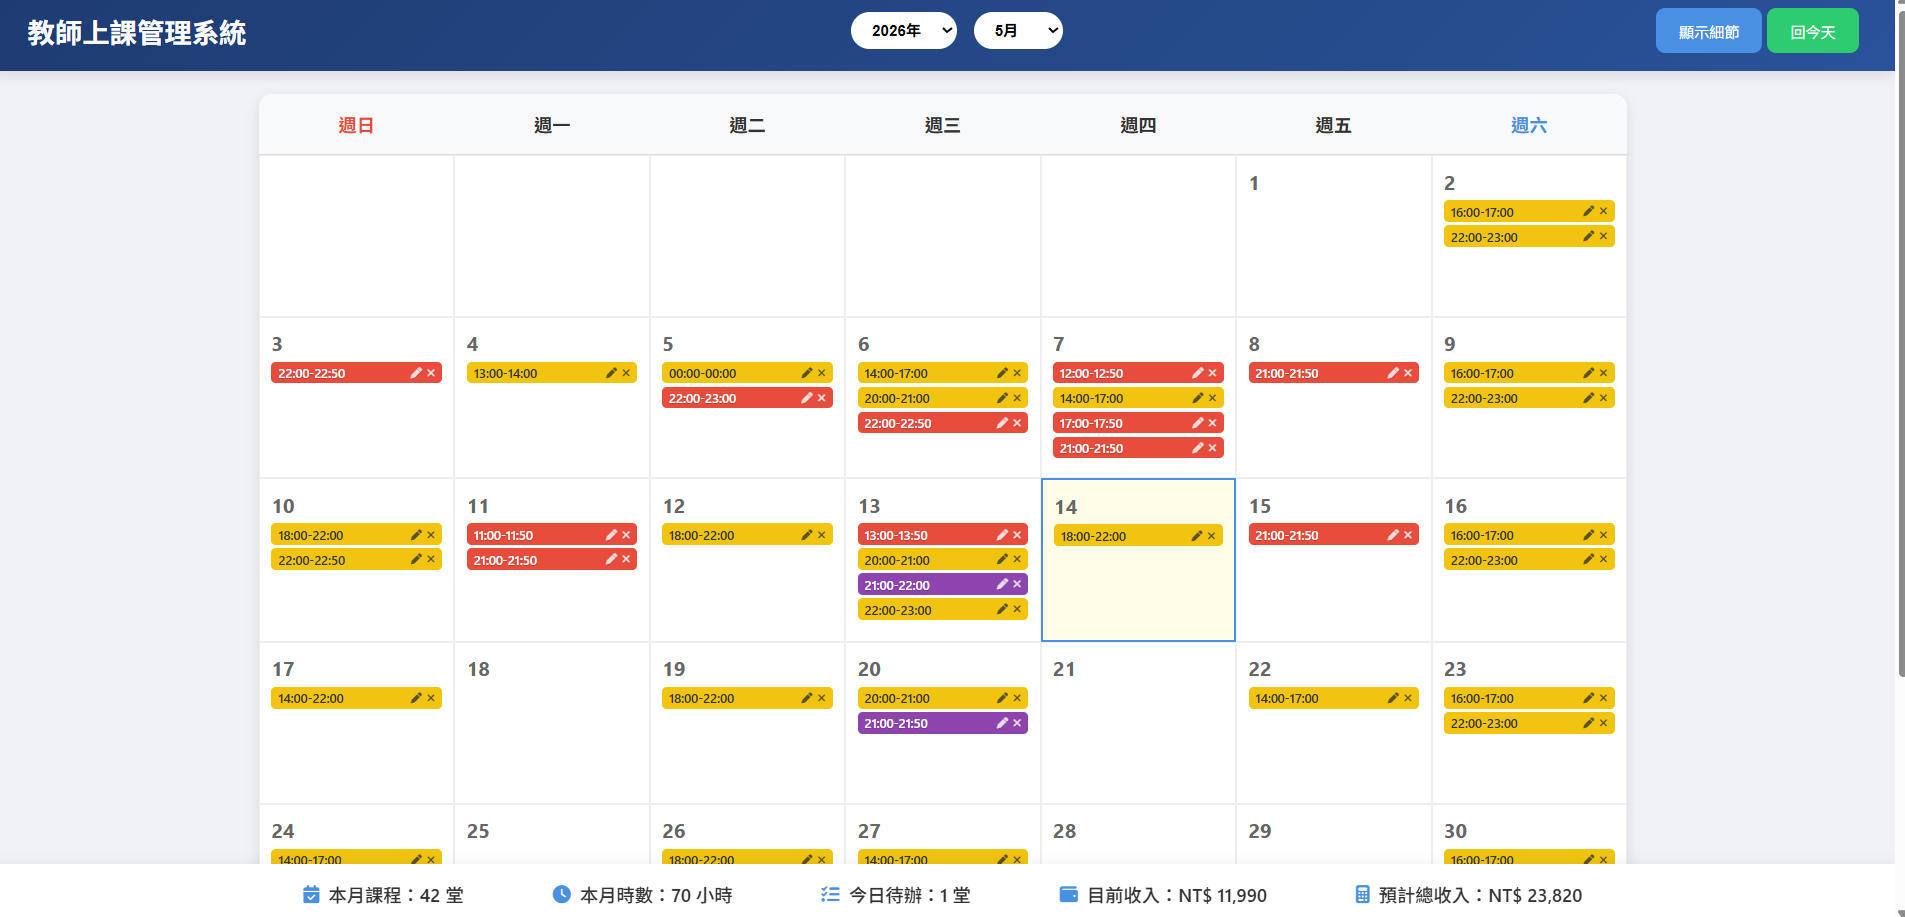
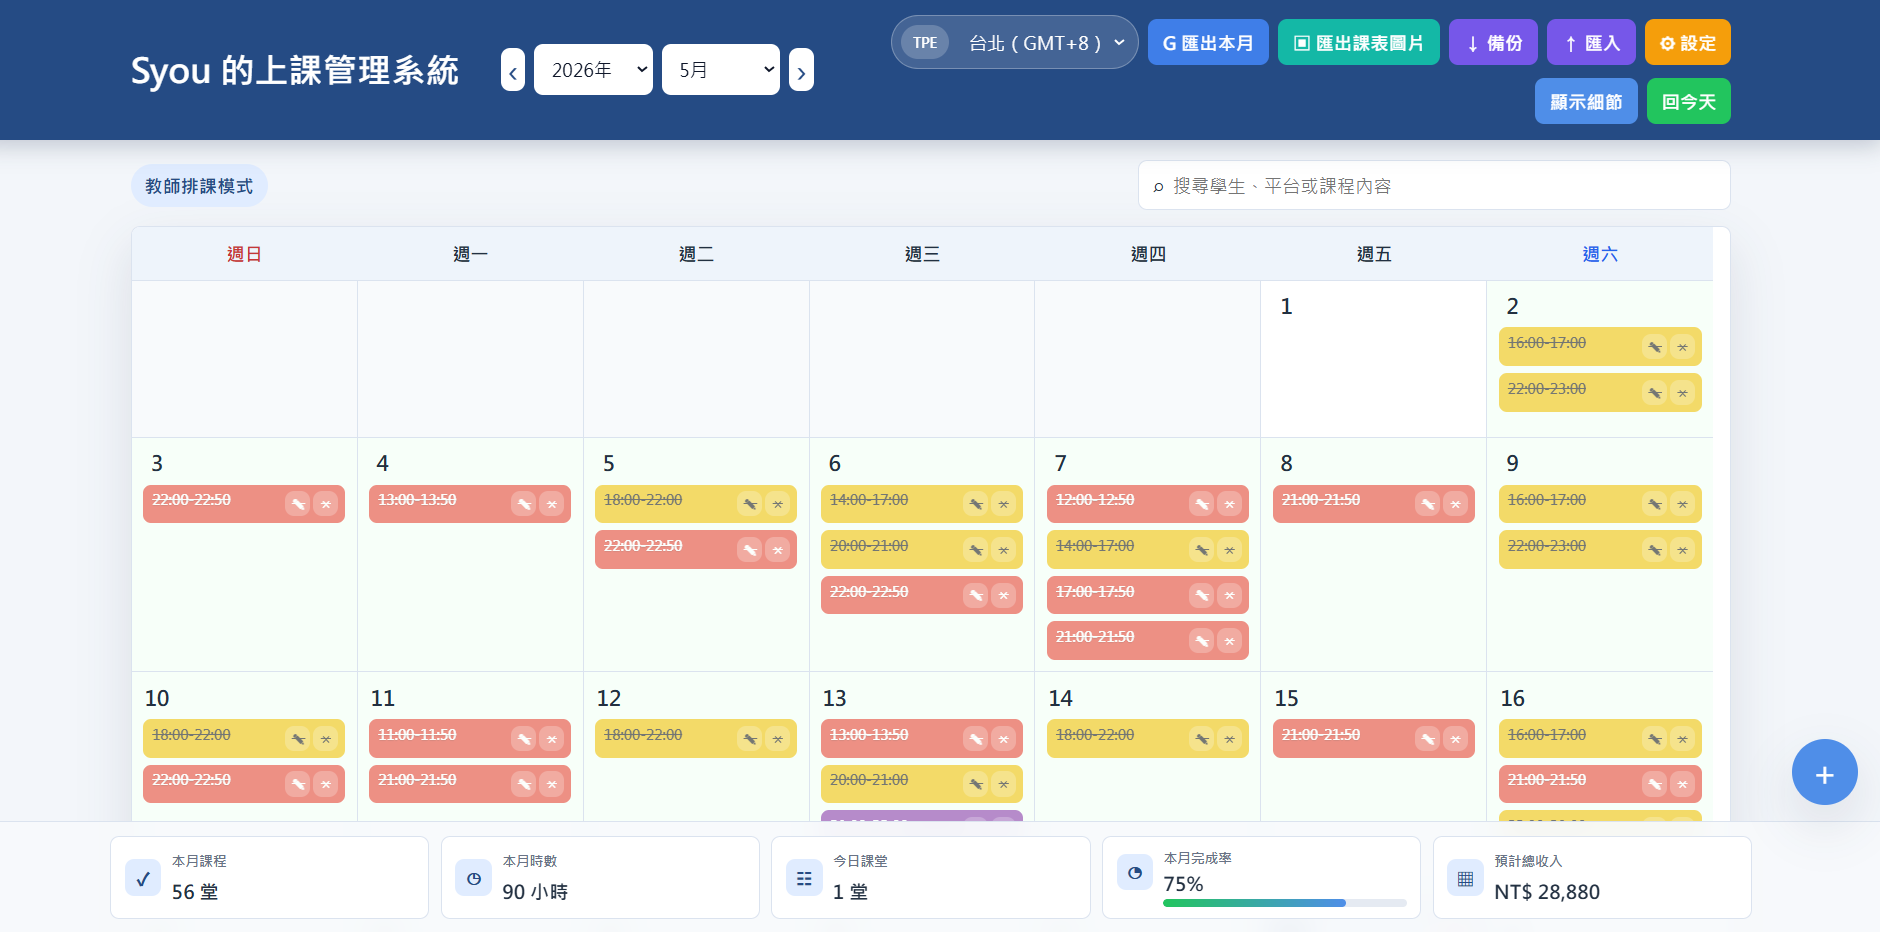
LMSPIC

diff --git a/src/store/indexStore.js b/src/store/indexStore.js
@@ -86,8 +86,8 @@ export default defineStore("indexStatus", {
             //Project分頁
             projectList: [
                 {
-                    projectName: "專業教師課程管理系統",
-                    projectInfo: "這是一套專為跨平台語言教師設計的網頁應用程式，旨在解決教師在管理多個教學平台（如 AmazingTalker, Preply, 聯成外語等）時，行程凌亂且收入難以統計的問題。",
+                    projectName: "教師行程管理系統",
+                    projectInfo: "專為線上老師、家教與自由工作者設計的雙模式行程管理工具。可用「教師排課模式」管理課程、學生、平台、收入與時區，也能切換成「一般行事曆模式」記錄分類、地點、花費與備註。支援 Google Calendar 匯出、課表圖片下載、JSON 備份匯入，適合想把排課與日常安排整理得更清楚的人。",
                     projectLink: "https://syou1997.github.io/LMS/",
                     projectImgLink: "https://raw.githubusercontent.com/Syou1997/personal_website2/refs/heads/main/image/LMSPIC.png",
                 },
@@ -308,8 +308,8 @@ export default defineStore("indexStatus", {
             //Project分頁
             projectList: [
                 {
-                    projectName: "講師のためのスケジュール管理システム",
-                    projectInfo: "本システムは、複数のプラットフォーム(AmazingTalker, Preplyなど)で活躍する講師のために開発された、効率的なスケジュール管理ツールです。",
+                    projectName: "教師スケジュール管理システム",
+                    projectInfo: "オンライン講師、家庭教師、フリーランス向けの二つのモードを備えたスケジュール管理ツールです。「教師レッスン管理モード」では、授業、学生、プラットフォーム、収入、タイムゾーンを管理できます。また、「一般カレンダーモード」に切り替えることで、予定の分類、場所、費用、メモなども記録できます。Google Calendar へのエクスポート、スケジュール画像の保存、JSON バックアップのインポートにも対応しています。",
                     projectLink: "https://syou1997.github.io/LMS/",
                     projectImgLink: "https://raw.githubusercontent.com/Syou1997/personal_website2/refs/heads/main/image/LMSPIC.png",
                 },
